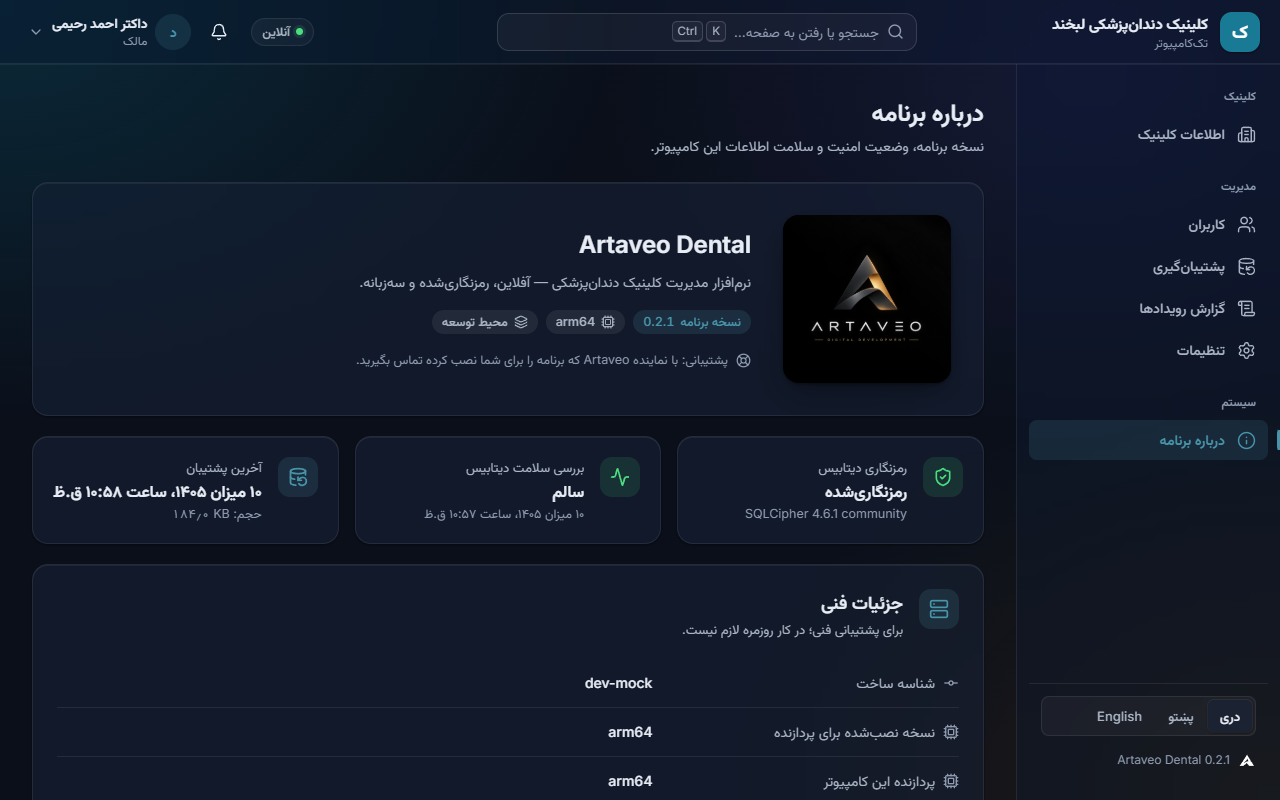
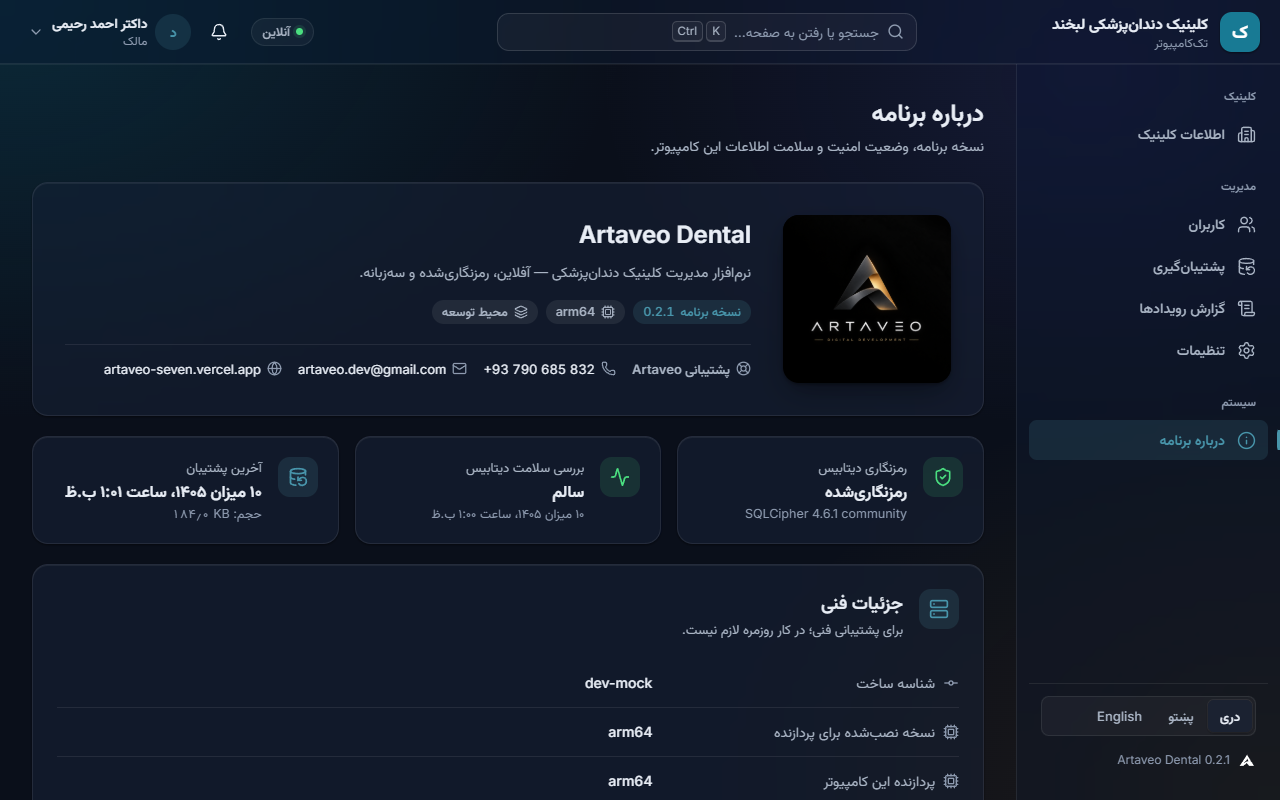
About: Artaveo support phone, email and website (owner decision)
Shown as selectable text in every language; E2E checks it. Ships with the
next release (v0.2.1 is already published with the generic text).

diff --git a/ui/src/pages/SystemInfo.tsx b/ui/src/pages/SystemInfo.tsx
@@ -1,5 +1,5 @@
 import { useEffect, useState } from "react";
-import { Cpu, Database, DatabaseBackup, FolderOpen, GitCommitHorizontal, HardDrive, KeyRound, Layers, Monitor, ShieldCheck, ShieldAlert, Activity, Server, LifeBuoy } from "lucide-react";
+import { Cpu, Database, DatabaseBackup, FolderOpen, GitCommitHorizontal, Globe, HardDrive, KeyRound, Layers, LifeBuoy, Mail, Monitor, Phone, ShieldCheck, ShieldAlert, Activity, Server } from "lucide-react";
 import type { CalendarSystem, SystemInfo } from "../../../shared/ts/contract";
 import { isSessionError, rpc } from "../lib/api";
 import { digits, formatBytes, formatDateTime } from "../lib/dates";
@@ -7,6 +7,7 @@ import { useI18n } from "../i18n";
 import { Card, CardHeader, Page, PageHeader, Stat } from "../ui/Card";
 import { Badge, ErrorState, Loading, Notice } from "../ui/Feedback";
 import { brandAssets } from "../ui/Brand";
+import { SUPPORT } from "../lib/support";
 
 /** Roadmap 1.8 + 2.1b: Artaveo Dental, version, support, and what the owner
  * needs to verify (CPU build, encryption, integrity, backup) without tools. */
@@ -49,7 +50,12 @@ export function SystemInfoPage({ version, calendar }: { version: string; calenda
             <Badge icon={Cpu}><bdi className="ltr" data-testid="si-build-arch">{info.build_arch}</bdi></Badge>
             <Badge icon={Layers}>{t(`system.env.${info.environment}`)}</Badge>
           </div>
-          <p className="row subtle t-caption" style={{ marginTop: 8 }}><LifeBuoy size={15} aria-hidden /> {t("system.support")}</p>
+          <div className="support" data-testid="support-contact">
+            <span className="support-title"><LifeBuoy aria-hidden /> {t("system.support")}</span>
+            <span className="support-item"><Phone aria-hidden /><span className="visually-hidden">{t("system.supportPhone")}: </span><bdi className="ltr num" data-testid="support-phone">{SUPPORT.phone}</bdi></span>
+            <span className="support-item"><Mail aria-hidden /><span className="visually-hidden">{t("system.supportEmail")}: </span><bdi className="ltr">{SUPPORT.email}</bdi></span>
+            <span className="support-item"><Globe aria-hidden /><span className="visually-hidden">{t("system.supportWebsite")}: </span><bdi className="ltr">{SUPPORT.website}</bdi></span>
+          </div>
         </div>
       </section>
 

diff --git a/ui/src/styles.css b/ui/src/styles.css
@@ -714,3 +714,7 @@ kbd { font-family: var(--font-sans); font-size: 11.5px; line-height: 18px; min-w
 .auth-form-panel .auth-footer { gap: var(--space-2); }
 @media (max-width: 860px) { .auth-split { grid-template-columns: 1fr; } .auth-brand-panel { display: none; } }
 .field > .segmented { align-self: flex-start; }
+.support { display: flex; align-items: center; gap: var(--space-2) var(--space-4); flex-wrap: wrap; margin-top: var(--space-3); padding-top: var(--space-3); border-top: 1px solid var(--line); font-size: 13px; }
+.support svg { width: 15px; height: 15px; color: var(--text-3); flex: none; }
+.support-title { display: inline-flex; align-items: center; gap: 6px; font-weight: 600; color: var(--text-2); }
+.support-item { display: inline-flex; align-items: center; gap: 6px; user-select: text; }

diff --git a/ui/e2e/app.spec.ts b/ui/e2e/app.spec.ts
@@ -141,6 +141,8 @@ test("About shows version, processor build and an encrypted, healthy database", 
   await expect(page.getByTestId("si-encryption")).toHaveText("رمزنگاریشده");
   await expect(page.getByTestId("si-integrity")).toHaveText("سالم", { timeout: 15_000 });
   await expect(page.getByTestId("si-last-backup")).toHaveText("هنوز پشتیبانی گرفته نشده");
+  await expect(page.getByTestId("support-phone")).toHaveText("+93 790 685 832");
+  await expect(page.getByTestId("support-contact")).toContainText("artaveo.dev@gmail.com");
 });
 
 test("manual backup; dates read as one phrase with a 12-hour time (OF-006/007)", async () => {

diff --git a/ui/src/lib/support.ts b/ui/src/lib/support.ts
@@ -1,0 +1,8 @@
+// Artaveo's official support contact (owner decision, 2026-10-02), shown on
+// the About page. Not translated: numbers and addresses are the same in every
+// language. Shown as selectable text — the app has no external-link opener yet.
+export const SUPPORT = {
+  phone: "+93 790 685 832",
+  email: "artaveo.dev@gmail.com",
+  website: "artaveo-seven.vercel.app",
+} as const;

diff --git a/Artaveo_Dental_Roadmap.md b/Artaveo_Dental_Roadmap.md
@@ -413,7 +413,7 @@ Finished
 > **v0.2.0 (پیشین):** سیستم طراحی (نشانههای رنگ/فاصله/شعاع/سایه، حالت روشن/تیره با انتخاب دستی + حالت کارایی، ADR-24)، پوسته برنامه (Sidebar، TopBar، نشانگر Online/Offline و نوع نصب، Notification Bell زیرساخت، Command Palette با `Ctrl+K`)، موتور چندزبانه (نمایش تاریخ شمسی/میلادی طبق انتخاب کلینیک، نمایش مبلغ آماده برای فازهای بعدی، نرمالسازی جستجو در `core::normalize` آماده برای فاز ۳)، و ویزارد کامل راهاندازی کلینیک (زبان، حالت نصب، اطلاعات کلینیک + لوگو + جغرافیا، ساعات کاری و تقویم، نوع کلینیک، ظاهر و رنگ، نسخه آزمایشی، پشتیبانگیری، مالک + کلید بازیابی) تحویل شدند. راهنمای تست دستی: [docs/testing/phase-2-manual-test.md](docs/testing/phase-2-manual-test.md).
 > باز (مانع شروع فاز ۳ نیست):
 > * تست دستی مالک محصول با [راهنمای v0.2.1](docs/testing/v0.2.1-manual-test.md)؛ موارد «رد» قبل از فاز ۳ اصلاح میشوند.
-> * اطلاعات تماس رسمی پشتیبانی Artaveo برای صفحه «درباره برنامه» (تصمیم مالک محصول؛ فعلاً متن عمومی).
+> * اطلاعات تماس پشتیبانی Artaveo (تلفن +93 790 685 832، artaveo.dev@gmail.com، artaveo-seven.vercel.app) بعد از انتشار v0.2.1 به «درباره برنامه» اضافه شد و با نسخه بعدی منتشر میشود (در v0.2.1 هنوز متن عمومی است).
 > * بازبینی متنهای پشتوی این فاز (ویزارد، پوسته برنامه) توسط گوینده بومی: [docs/i18n/pashto-review.md](docs/i18n/pashto-review.md).
 > * «حالت نصب: سرور کلینیک / اتصال به سرور» فقط در ویزارد ذخیره میشود؛ پیادهسازی واقعی LAN همچنان فاز ۷ است.
 > * «نسخه آزمایشی» در ویزارد فقط اطلاعرسانی است؛ سامانه کامل License/Activation همچنان فاز ۱۰ است.
